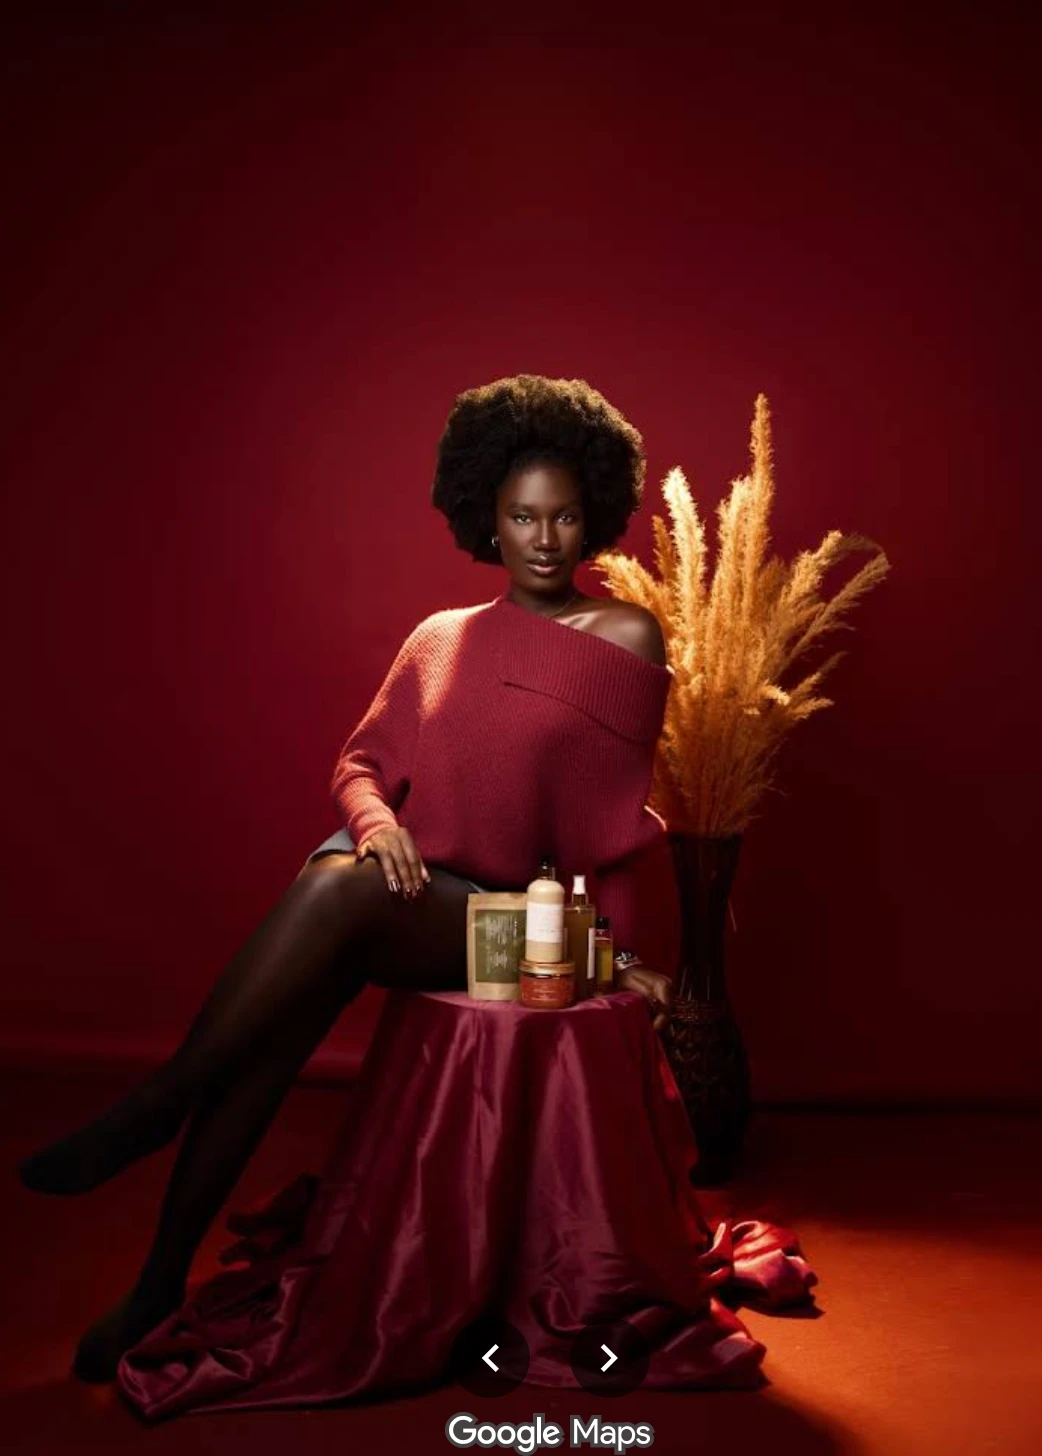
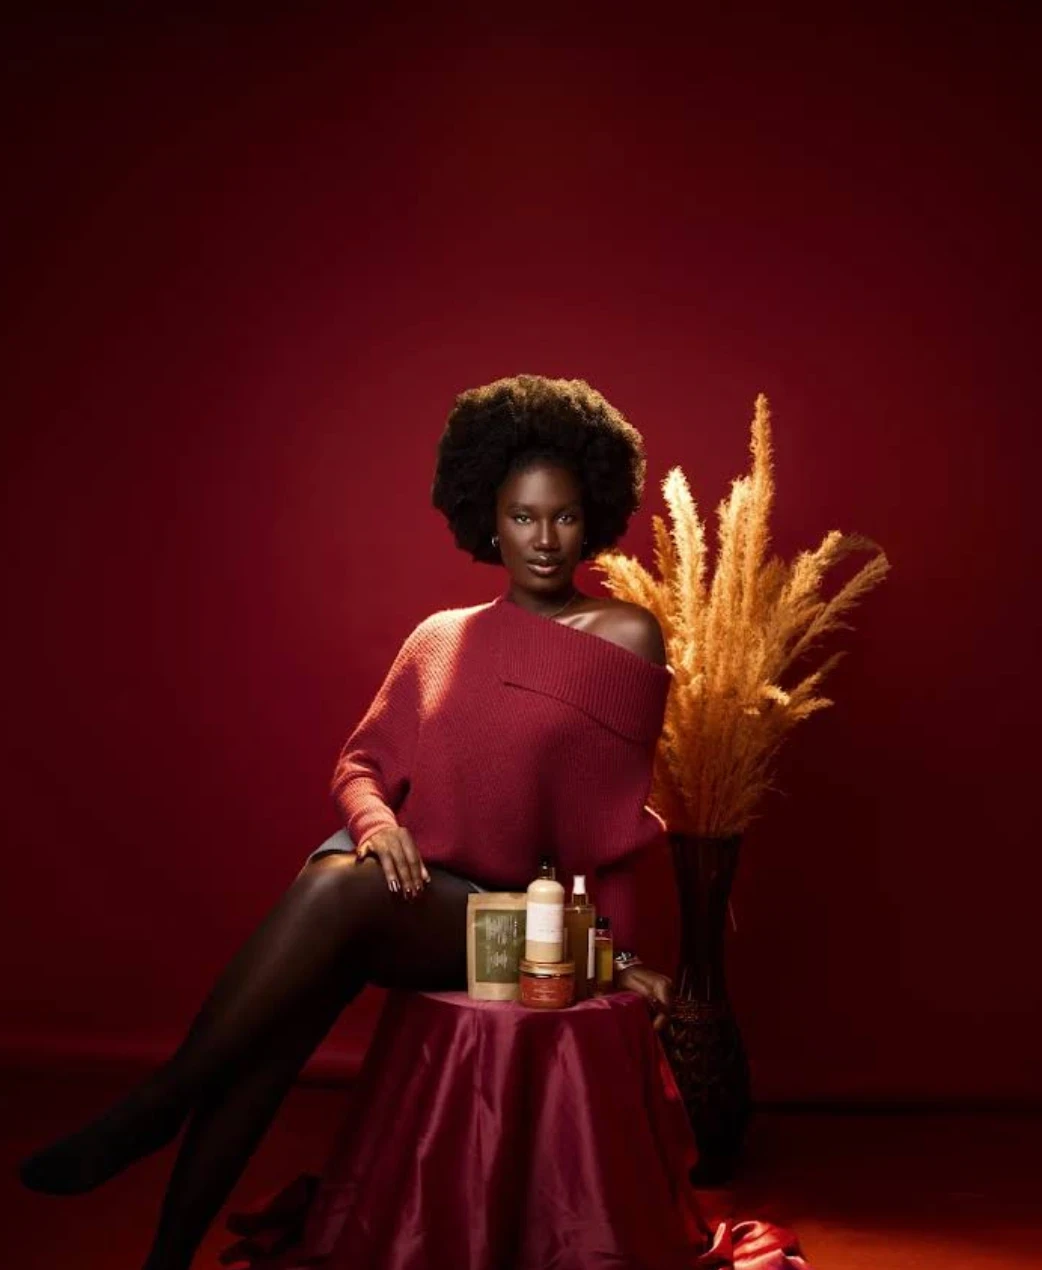
Mela & Cuty Cares: fix hero chip copy, crop Maps watermark from photos, add real product jars
Three fixes from Jean's review:
- Hero badge "Tout est soin" read as meaningless out of context; replaced
  with "Spécialiste cheveux afros", which ties directly to the headline.
- The two real brand photos (hero portrait, Produits teaser) were
  screenshotted from a Google Maps photo viewer and had the "Google Maps"
  watermark, nav arrows, and black letterbox bars baked into the pixels.
  On desktop the floating "Tout est soin" chip happened to sit over the
  watermark and hid it; on mobile that chip moves below the image (no
  longer overlapping), exposing it. Cropped both source images to remove
  the baked-in Maps UI chrome and letterboxing at the source, so it's
  gone regardless of layout/viewport rather than papered over by a chip
  placement that only worked by accident.
- Added the two real product jar photos Jean sent (La Crème Lavante,
  Curly Volum Cream - also Maps screenshots, same chrome cropped off):
  replaces the generic Pixabay stock bottle photo in produits.html's
  hero, and the generic stock amber-bottle photo in notre-histoire.html's
  "Transformer" chapter - both now show the business's actual packaging
  instead of stock images standing in for it.

Claude-Session: https://claude.ai/code/session_01Vstqs87o3Svm6LJo7pZP1f

Changed region(s): [[0.0, 0.2457, 1.0, 1.0]]

diff --git a/sites/mela-cuty-cares/notre-histoire.html b/sites/mela-cuty-cares/notre-histoire.html
@@ -94,7 +94,7 @@
   <div class="container reveal">
     <div class="chapter-grid chapter-grid--rev" style="display:grid;grid-template-columns:1fr;gap:44px;align-items:center;">
       <div class="kernel-mask photo" style="aspect-ratio:4/5;">
-        <img src="images/histoire-transformer.jpg" alt="Transformation en usine, Mela &amp; Cuty Cares">
+        <img src="images/produits-jar-curly.webp" alt="Curly Volum Cream, Mela &amp; Cuty Cares">
       </div>
       <div>
         <div class="timeline__num" style="font-size:52px;color:var(--bronze-500);">IV</div>

diff --git a/sites/mela-cuty-cares/produits.html b/sites/mela-cuty-cares/produits.html
@@ -40,7 +40,7 @@
       <p style="font-size:15.5px;opacity:.85;max-width:46ch;">Nous avons un contrôle total sur nos produits — de la plantation jusqu'au flacon.</p>
     </div>
     <div class="kernel-mask photo photo--on-dark hero__image">
-      <img src="images/produits-bottles.jpg" alt="Produits capillaires Mela &amp; Cuty Cares, pressés à froid">
+      <img src="images/produits-jar-lavante.webp" alt="La Crème Lavante, Mela &amp; Cuty Cares">
     </div>
   </div>
 </section>

diff --git a/sites/mela-cuty-cares/index.html b/sites/mela-cuty-cares/index.html
@@ -56,7 +56,7 @@
         <img src="images/portrait-hero.webp" alt="Mela &amp; Cuty Cares — cheveux afros naturels et soins capillaires">
       </div>
       <div class="hero__chip glass-dark hero__chip--1">Pressé à froid · Côte d'Ivoire</div>
-      <div class="hero__chip glass-dark hero__chip--2">Tout est soin</div>
+      <div class="hero__chip glass-dark hero__chip--2">Spécialiste cheveux afros</div>
     </div>
   </div>
 </section>
